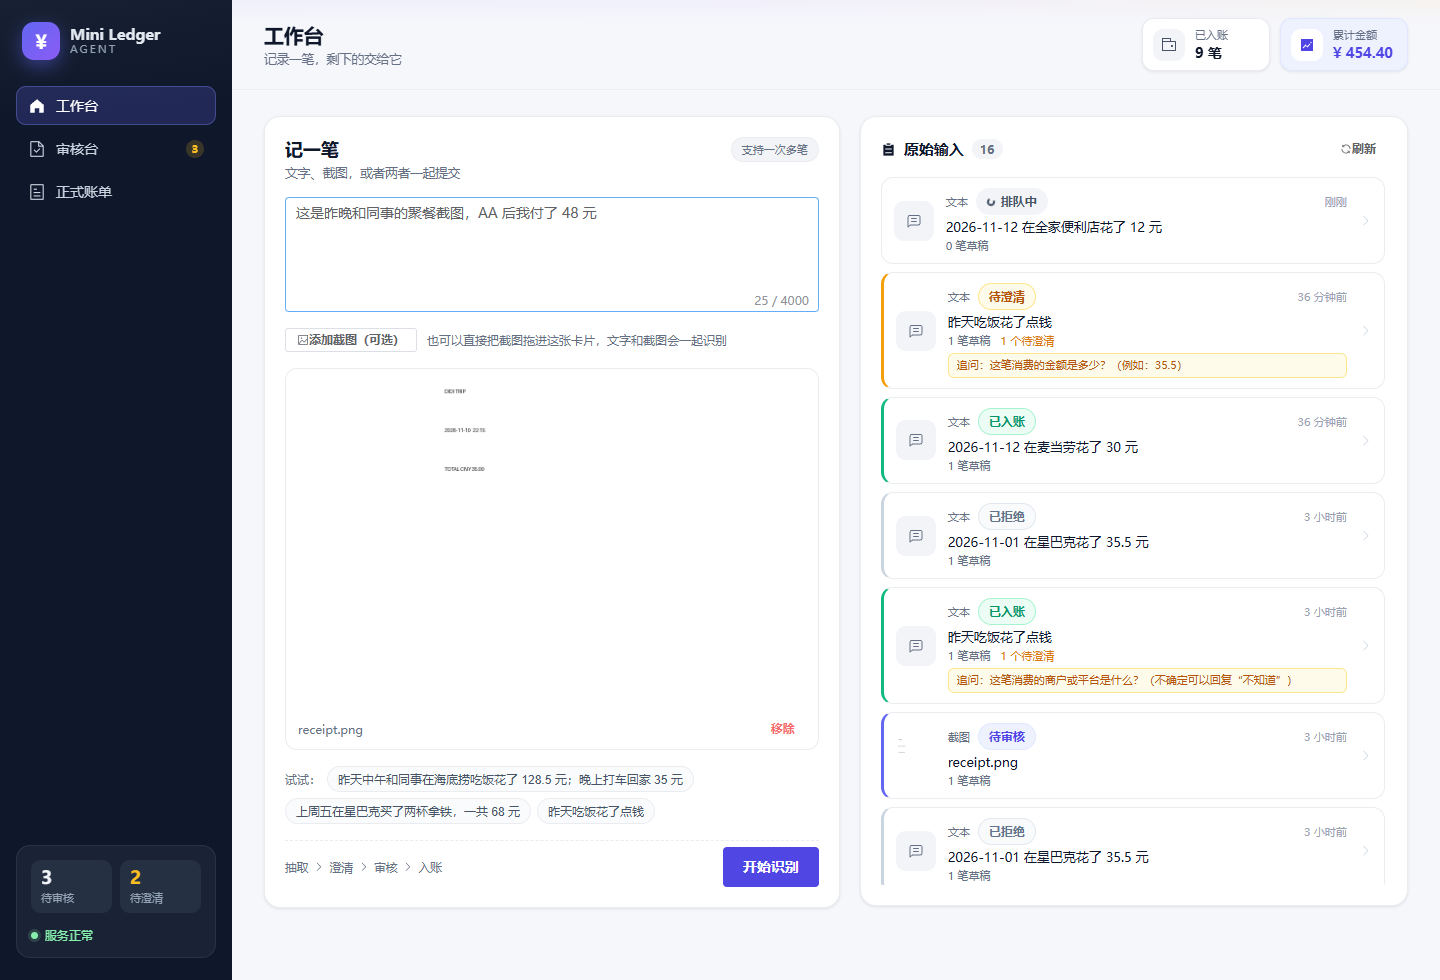
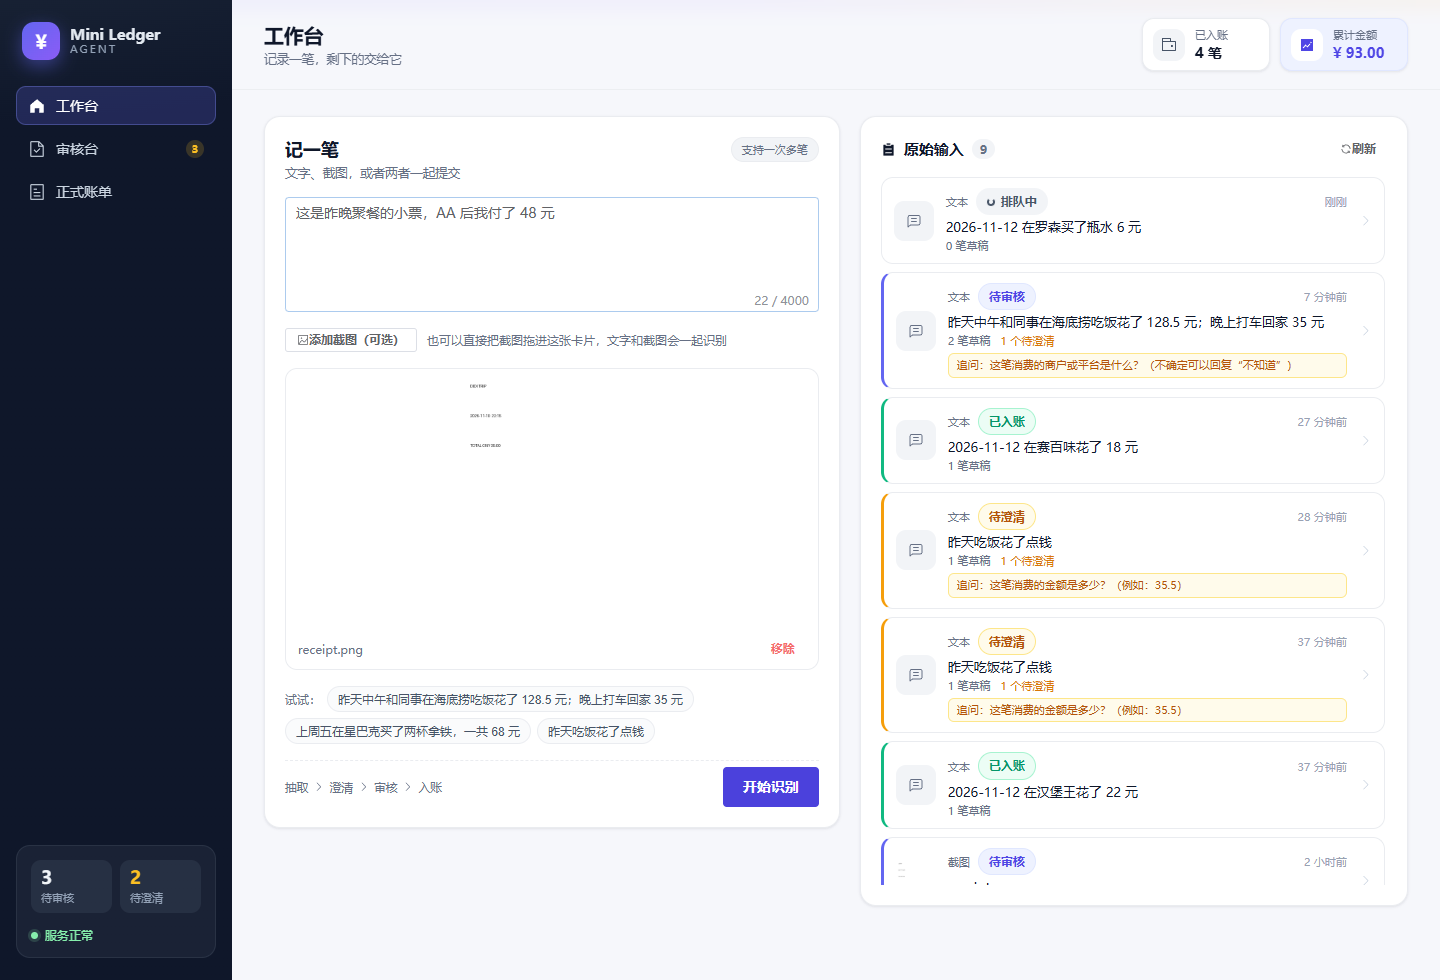
feat: treat model-reported ambiguity as blocking confirmation; unify composer polish

diff --git a/frontend/src/components/DraftCard.vue b/frontend/src/components/DraftCard.vue
@@ -27,7 +27,12 @@ const amountText = computed(() => {
 
 const criticalMissing = computed(() => !props.draft.amount || !props.draft.txn_date)
 const canConfirm = computed(
-  () => props.draft.status !== 'confirmed' && props.draft.status !== 'rejected' && !criticalMissing.value && !props.draft.conflict,
+  () =>
+    props.draft.status !== 'confirmed' &&
+    props.draft.status !== 'rejected' &&
+    props.draft.status !== 'needs_clarification' &&
+    !criticalMissing.value &&
+    !props.draft.conflict,
 )
 
 const merchantSuggestion = computed(() => {

diff --git a/backend/app/services/pipeline.py b/backend/app/services/pipeline.py
@@ -217,6 +217,12 @@ def _sync_from_extraction(draft: Draft, tx: Any, source: str, today: date) -> No
         confidence.setdefault("date", 0.8)
     draft.confidence = confidence
 
+    ambiguous = [field for field in (tx.ambiguous_fields or []) if field in FIELD_LABELS]
+    if ambiguous:
+        suggestions = dict(draft.suggestions or {})
+        suggestions["ambiguous_fields"] = ambiguous
+        draft.suggestions = suggestions
+
 
 def compute_warnings(draft: Draft) -> list[dict]:
     warnings: list[dict] = []
@@ -345,6 +351,38 @@ async def ensure_clarification(
         )
         has_open_blocking = True
 
+    # 1.5) model-reported ambiguity (e.g. text contradicts the screenshot)
+    if not has_open_blocking and not draft.conflict:
+        ambiguous_fields = [
+            field
+            for field in (draft.suggestions or {}).get("ambiguous_fields", []) or []
+            if field in FIELD_LABELS and getattr(draft, field) is not None and field not in asked
+        ]
+        ambiguous_fields.sort(key=lambda f: 0 if f in CRITICAL_FIELDS else 1)
+        if ambiguous_fields:
+            field = ambiguous_fields[0]
+            value = getattr(draft, field)
+            blocking = field in CRITICAL_FIELDS
+            session.add(
+                Clarification(
+                    input_id=input_item.id,
+                    draft_id=draft.id,
+                    field=field,
+                    kind="ambiguous",
+                    status="open",
+                    blocking=blocking,
+                    question=(
+                        f"系统识别到{ FIELD_LABELS[field] }为「{value}」，但存在歧义。"
+                        "请确认是否正确；如不正确，请直接输入正确值。"
+                    ),
+                    reason="识别结果存在歧义，需要人工确认",
+                    options={"existing": str(value), "confirm_word": "正确"},
+                    round=1,
+                )
+            )
+            asked[field] = "open"
+            has_open_blocking = has_open_blocking or blocking
+
     # 2) missing critical fields -> blocking question, one at a time
     if not has_open_blocking and not draft.conflict:
         for field in CRITICAL_FIELDS:
@@ -426,14 +464,16 @@ async def ensure_clarification(
         if not already:
             await datasources.run_all(session, draft, input_item)
 
-    recompute_draft_status(draft)
+    recompute_draft_status(draft, has_blocking=has_open_blocking)
     draft.warnings = compute_warnings(draft)
 
 
-def recompute_draft_status(draft: Draft) -> None:
+def recompute_draft_status(draft: Draft, *, has_blocking: bool = False) -> None:
     if draft.status in ("confirmed", "rejected"):
         return
     if draft.conflict:
+        draft.status = "needs_clarification"
+    elif has_blocking:
         draft.status = "needs_clarification"
     elif any(getattr(draft, field) is None for field in CRITICAL_FIELDS):
         draft.status = "needs_clarification"

diff --git a/backend/tests/test_flow.py b/backend/tests/test_flow.py
@@ -389,3 +389,37 @@ async def test_text_only_through_upload_endpoint(client, session, fake_llm):
     resp = await client.post("/api/v1/inputs/upload", data={"text": "便利店买水 9.9"})
     assert resp.status_code == 201, resp.text
     assert resp.json()["kind"] == "text"
+
+@pytest.mark.asyncio
+async def test_ambiguous_critical_field_blocks_confirm_until_resolved(client, session, fake_llm):
+    fake_llm["transactions"] = [
+        {
+            "amount": 35.5,
+            "date": "2026-11-09",
+            "merchant": "海底捞",
+            "category": "餐饮",
+            "confidence": {"amount": 0.55, "date": 0.9, "merchant": 0.9},
+            "ambiguous_fields": ["amount"],
+        }
+    ]
+    created = await _create(client, "昨晚聚餐，文字说 40，截图 35.5")
+    await _run(session, created["id"])
+    detail = await _detail(client, created["id"])
+    draft = detail["drafts"][0]
+    assert draft["status"] == "needs_clarification"
+    ambiguous = [c for c in detail["clarifications"] if c["kind"] == "ambiguous"]
+    assert ambiguous and ambiguous[0]["blocking"] is True
+
+    blocked = await client.post(f"/api/v1/drafts/{draft['id']}/confirm")
+    assert blocked.status_code == 409
+    assert blocked.json()["detail"]["code"] == "clarification_pending"
+
+    resp = await client.post(
+        f"/api/v1/clarifications/{ambiguous[0]['id']}/answer",
+        json={"action": "answer", "value": "正确"},
+    )
+    assert resp.status_code == 200
+    detail = await _detail(client, created["id"])
+    assert detail["drafts"][0]["status"] == "ready_for_review"
+    ok = await client.post(f"/api/v1/drafts/{draft['id']}/confirm")
+    assert ok.status_code == 200

diff --git a/backend/app/services/ledger.py b/backend/app/services/ledger.py
@@ -7,7 +7,7 @@ from datetime import UTC, datetime
 from decimal import Decimal
 from typing import Any
 
-from sqlalchemy import select
+from sqlalchemy import func, select
 from sqlalchemy.exc import IntegrityError
 from sqlalchemy.ext.asyncio import AsyncSession
 
@@ -156,6 +156,18 @@ async def confirm_draft(
         raise LedgerError("关键字段（金额/日期）缺失，不能确认入账", code="missing_critical")
     if draft.amount < 0:
         raise LedgerError("金额不能为负数", code="invalid_amount")
+
+    open_blocking = await session.scalar(
+        select(func.count())
+        .select_from(Clarification)
+        .where(
+            Clarification.draft_id == draft.id,
+            Clarification.status == "open",
+            Clarification.blocking.is_(True),
+        )
+    )
+    if open_blocking:
+        raise LedgerError("还有未解决的澄清问题，请先回答", code="clarification_pending")
 
     bill = Bill(
         draft_id=draft.id,

diff --git a/backend/app/services/llm.py b/backend/app/services/llm.py
@@ -268,7 +268,8 @@ class SiliconFlowClient:
                     "type": "text",
                     "text": (
                         "用户同时提供了以下文字说明，可用于辅助理解；"
-                        "若文字与截图不一致，请在 ambiguous_fields 中标注对应字段，不要静默覆盖截图：\n"
+                        "若文字中的金额/日期/商户与截图明显不一致，请以截图为准，"
+                        "把该字段加入 ambiguous_fields 并降低置信度，不要擅自采用文字值：\n"
                         f"<<<\n{context_text}\n>>>"
                     ),
                 }

diff --git a/docs/ACCEPTANCE.md b/docs/ACCEPTANCE.md
@@ -7,7 +7,7 @@
 ```bash
 cd backend
 uv run ruff check app tests
-uv run pytest -q          # 20 passed
+uv run pytest -q          # 21 passed
 ```
 
 | 用例 | 覆盖要求 |
@@ -58,6 +58,7 @@ BASE=http://127.0.0.1:18080 node tools/e2e_ui.cjs
 | 文本输入、多笔 | `services/llm.py` 提示词、`pipeline.build_drafts` | `test_multi_transaction_extraction` |
 | 截图上传、预览、持久化 | `POST /inputs/upload`、`frontend Workbench`、uploads volume | `test_image_upload_is_persisted`、UI E2E |
 | 文字 + 截图同时提交 | 统一输入框 `kind=mixed` | `test_mixed_text_and_image_input` |
+| 图文冲突 → 歧义确认 | 模型 `ambiguous_fields` → 阻塞确认 | `test_ambiguous_critical_field_blocks_confirm_until_resolved` |
 | 输入列表区分类型/状态/澄清/草稿 | `Workbench.vue`、`GET /inputs`（含最新追问） | UI + `test_input_list...` |
 | 金额/日期/商户/类别/来源 | `models.Draft.field_sources`、`DraftCard.vue` | UI 来源徽标 |
 | 关键字段缺失不可确认 | `ledger.confirm_draft` | `test_missing_amount_blocks_confirmation` |
